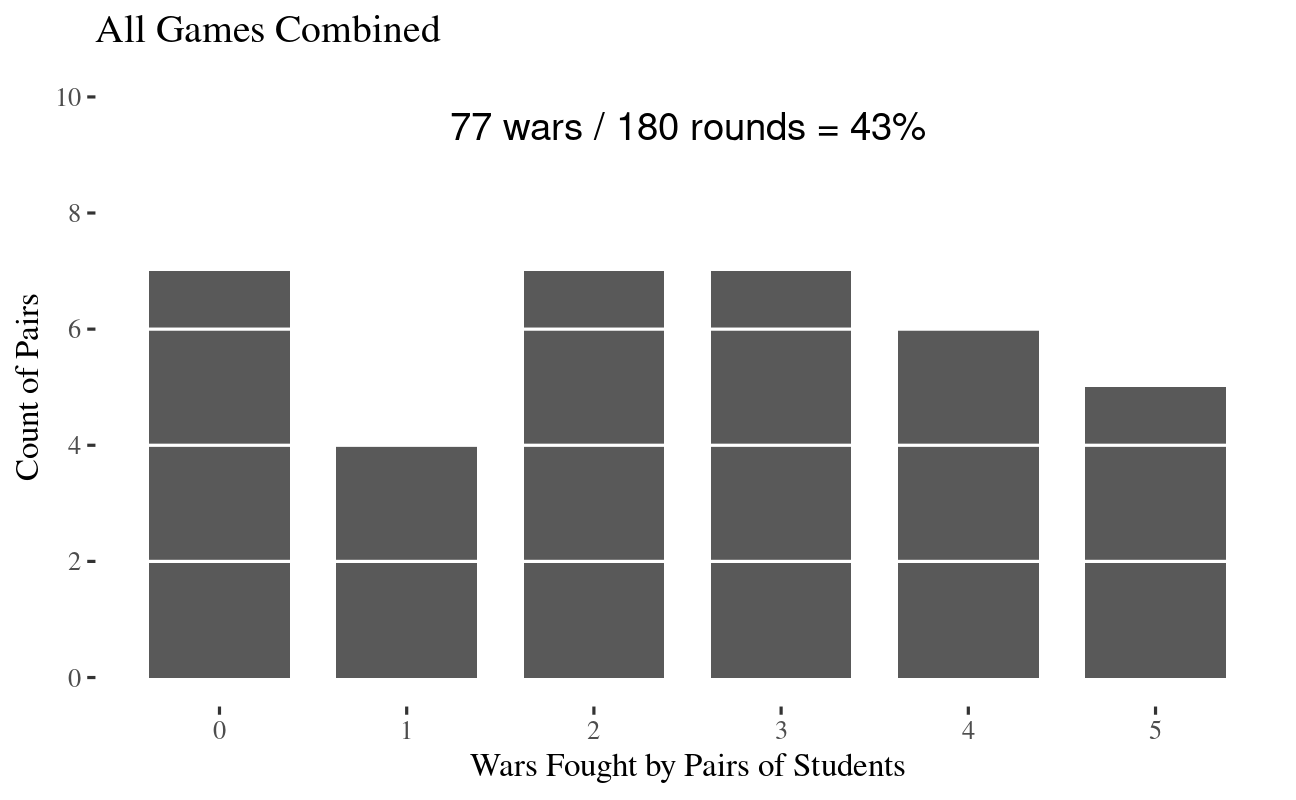
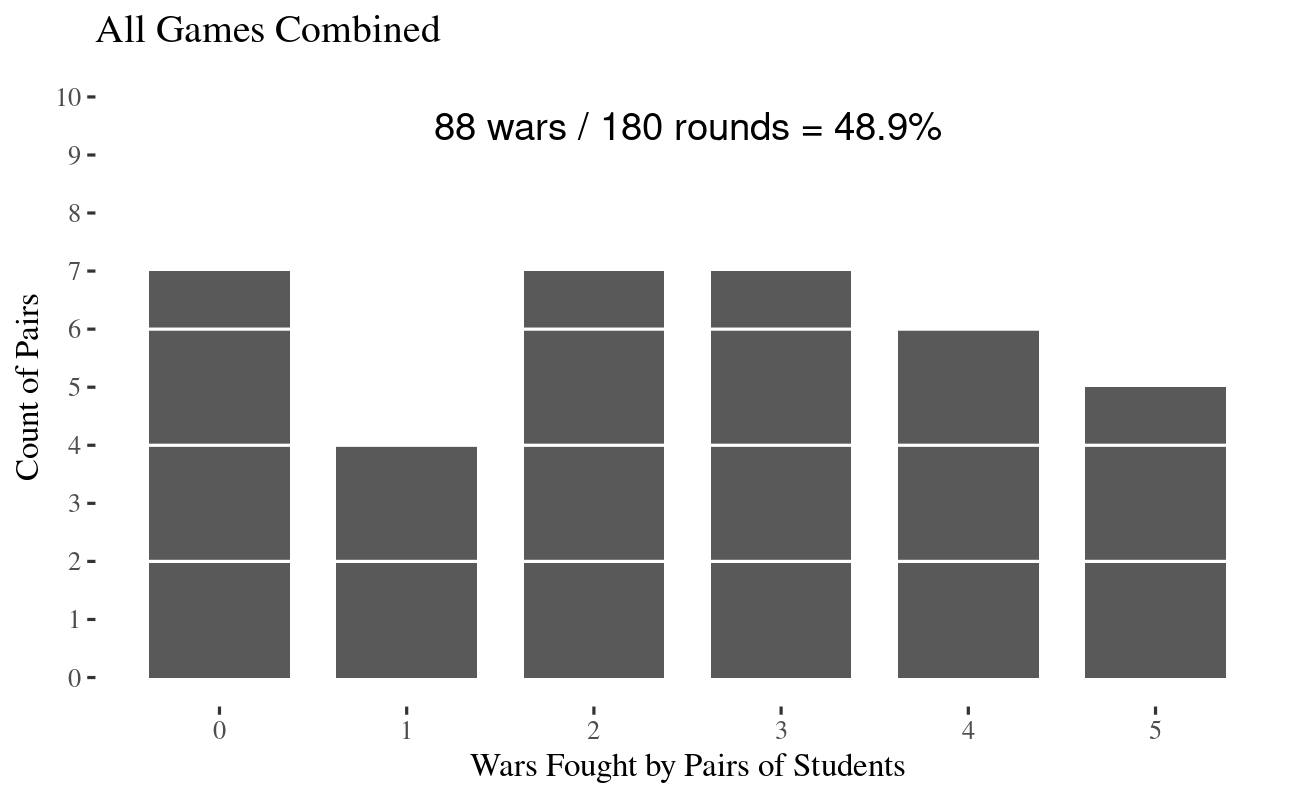
update 6

Changed region(s): [[0.3395, 0.125, 0.7407, 0.1875]]

diff --git a/06_2-Bargaining_Model_War.html b/06_2-Bargaining_Model_War.html
@@ -69,19 +69,21 @@ Here are the overall results from our simulation.
 
 - Each bar counts the number of pairs in each category.
 
+### Does the visualization make sense?
+
 &lt;br&gt;
 
-So, ...
+### So, what do we see here in overall results?
 
-- 8 pairs fought zero wars in their five rounds together.
+- 7 pairs fought zero wars in their five rounds together.
 
-- 1 pair fought in all five rounds they played together.
+- 5 pairs fought in all five rounds they played together.
 
-- Out of 36 pairings and 180 possible conflicts we observed 77 wars.
+- Out of 36 pairings and 180 possible conflicts we observed 88 wars.
 
-- So, 43% of the time your conflicts led to war.
+- So, 48.9% of the time your conflicts led to war.
 
-### Does the visualization make sense?
+
 
 
 
